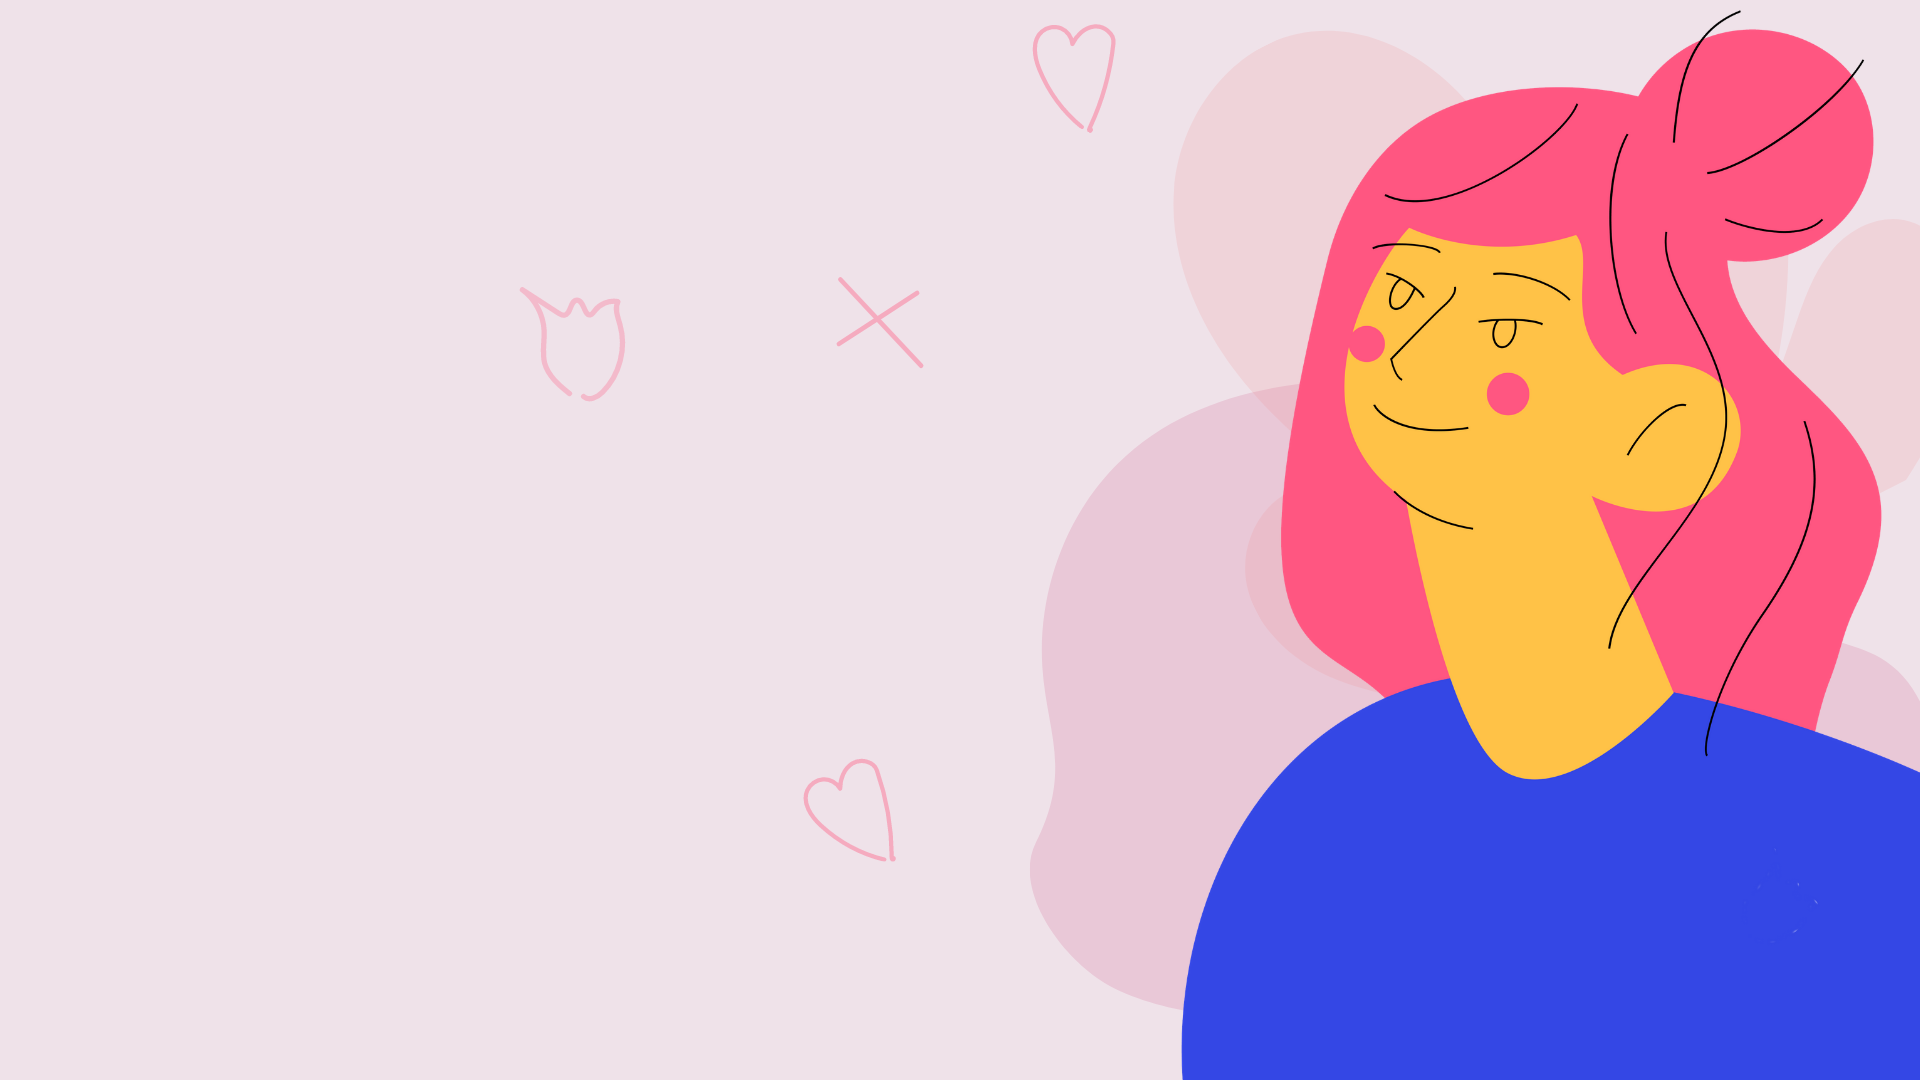
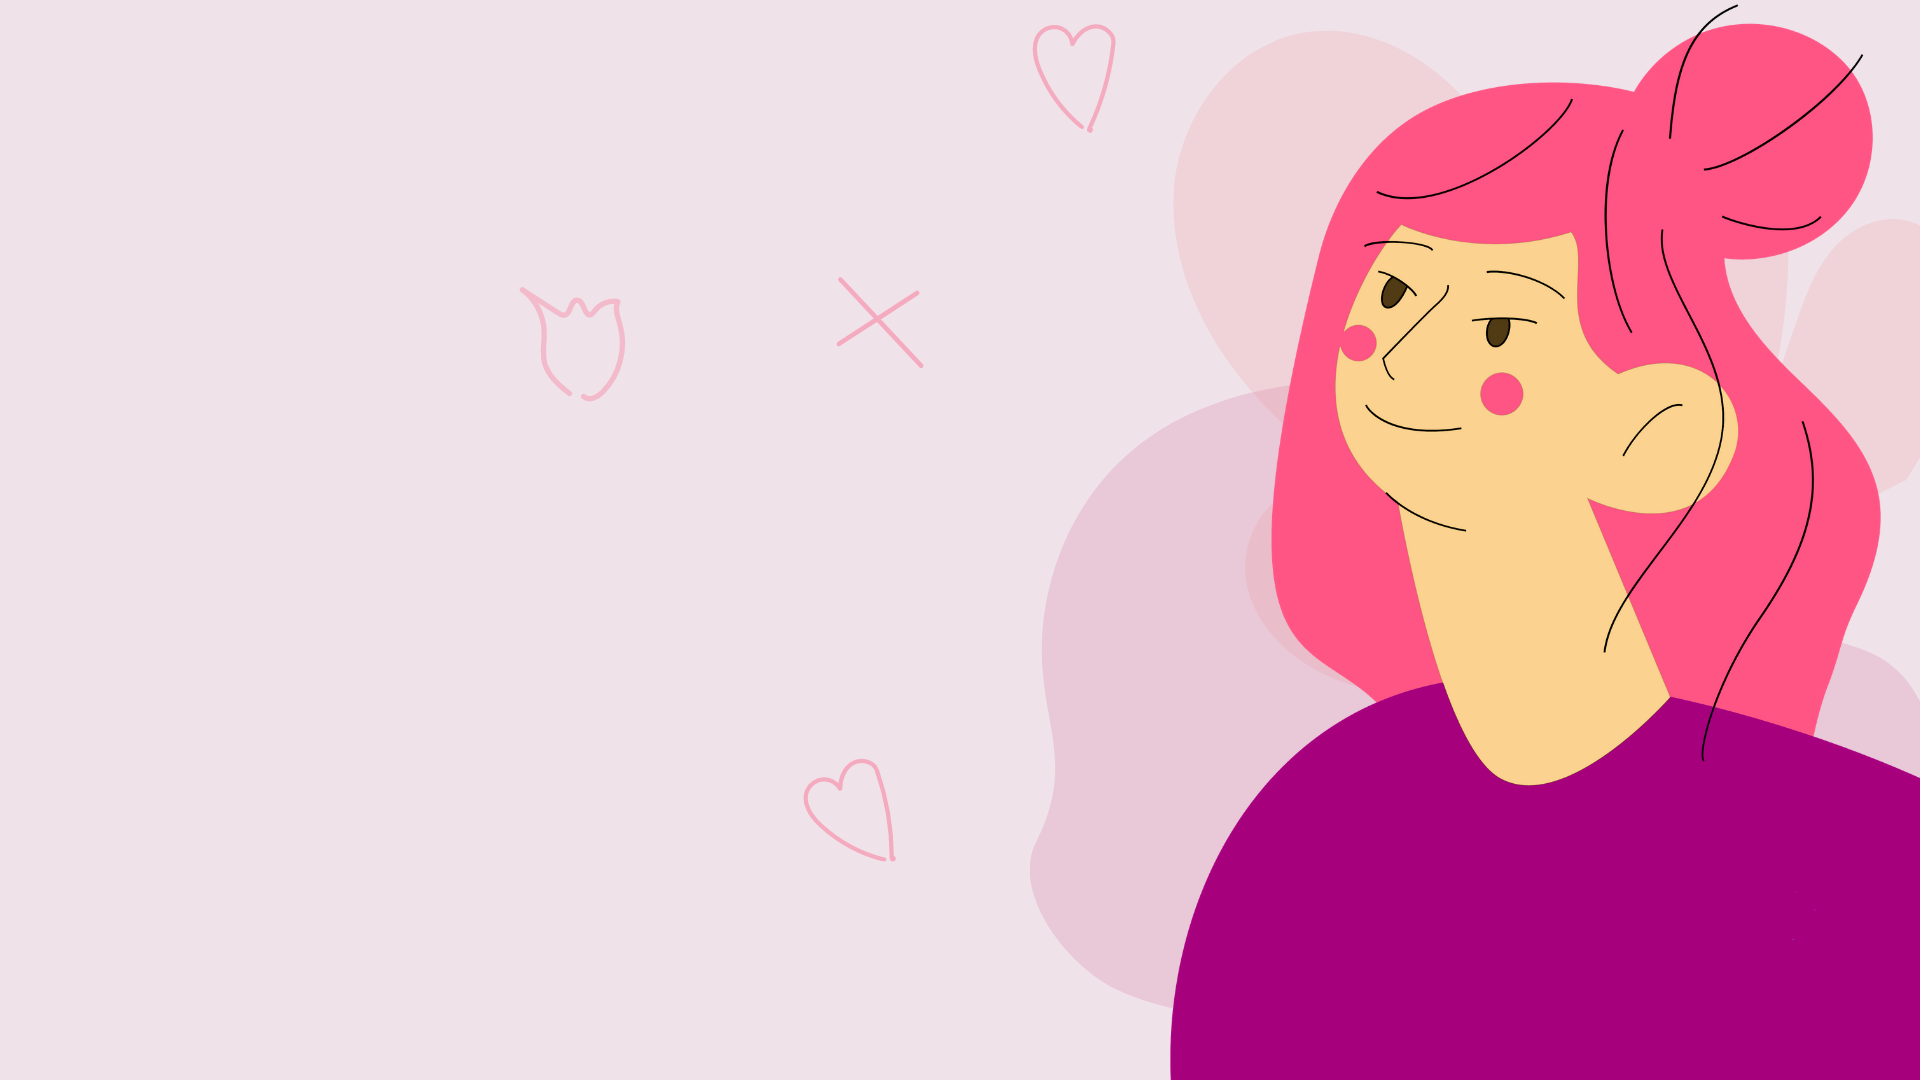
agrego efecto en contacto de la barra de navegacion y cambio colores de la imagen de la section pprincipal

diff --git a/index.html b/index.html
@@ -23,7 +23,7 @@
                 <li>
                     <a href="./index.html">PROYECTOS</a>
                 </li>
-                <li>
+                <li class="active-buttom">
                     <a href="./index.html">CONTACTO</a>
                 </li>
             </ul>

diff --git a/style.css b/style.css
@@ -24,6 +24,13 @@ li {
     margin-right: 18px;
 }
 
+.active-buttom {
+    border: 1px solid #F3BACB;
+    background-color: #EFD3D9;
+    border-radius: 100px;
+    padding: 10px;
+}
+
 
 /*INICIO comportamiento de links*/
 
